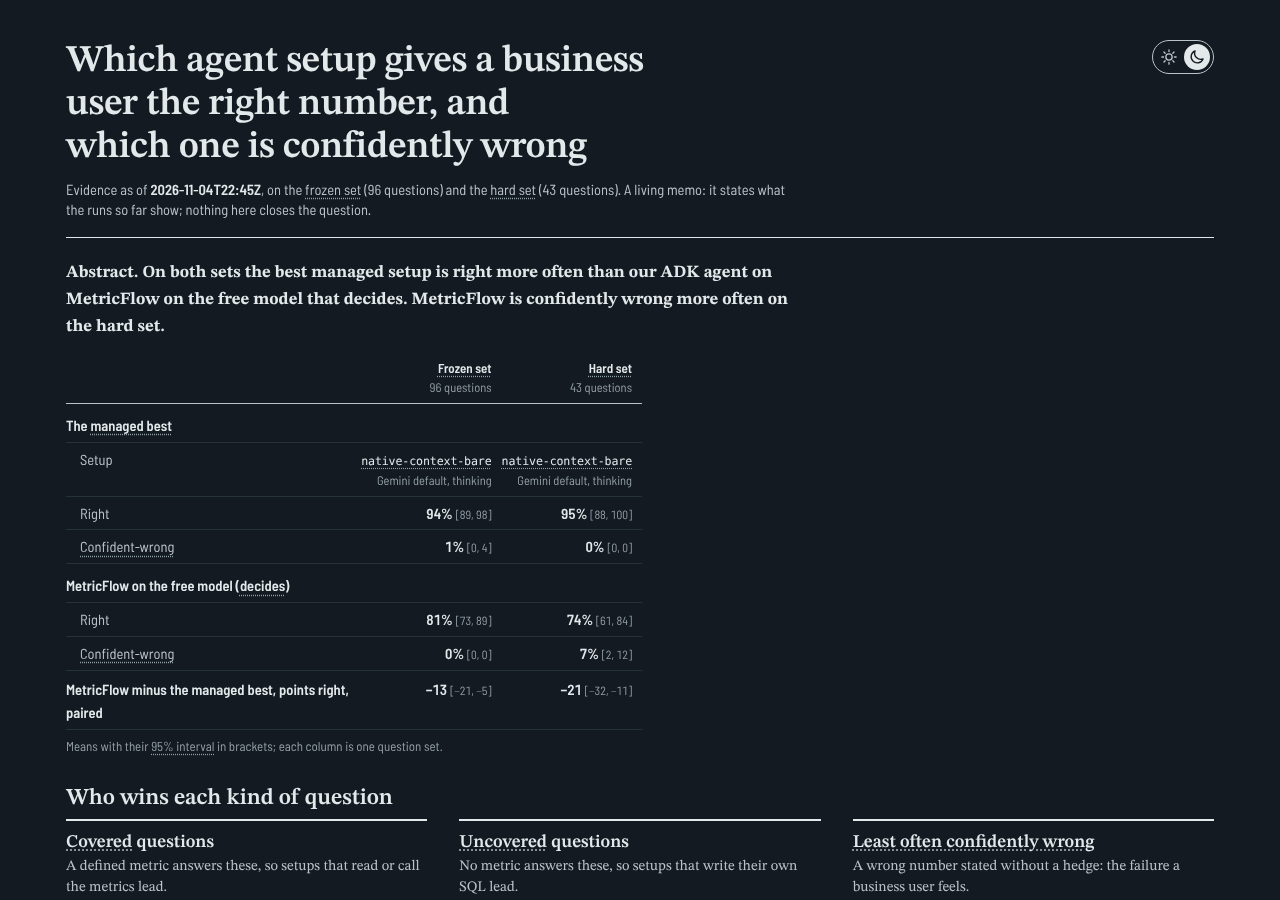
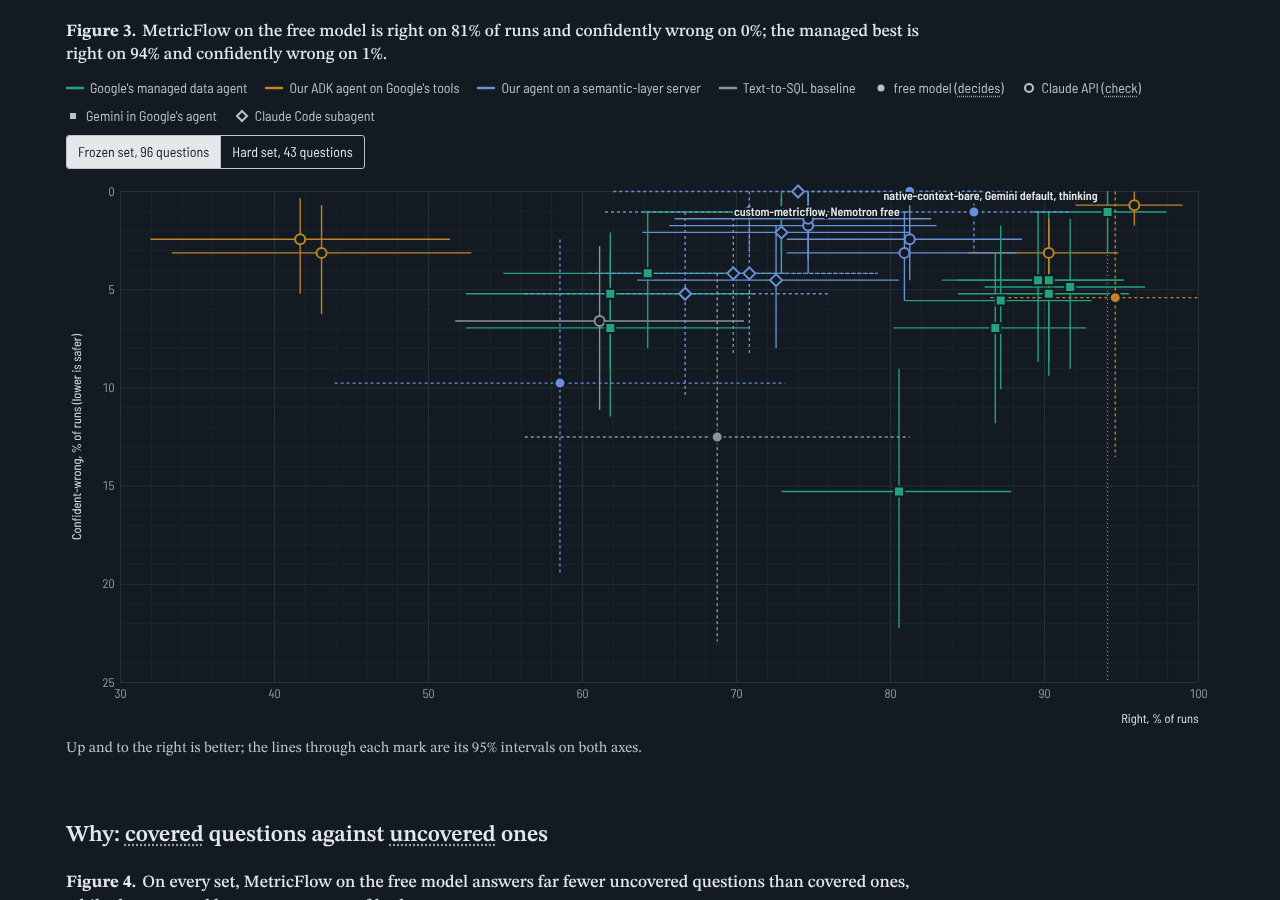
docs(semantic-bet): Plot port notes, measurements, screenshots and the plate header overlap fix

diff --git a/docs/research/semantic-bet/report/index.html b/docs/research/semantic-bet/report/index.html
@@ -2381,6 +2381,9 @@ window.reportReady(() => {
     G.bands.forEach((b, i) => { const bk = D.buckets.find((x) => x.key === b.b) || { label: b.b }; hh += `<span class="bh" style="left:${b.x + 8}px;${tierHead(i % 2 ? 1 : 2)}">${esc(bk.label)}<small>${b.n} q</small></span>`; });
     hh += `</div><div style="width:${G.IW}px"><span class="term" data-term="over-the-floor" tabindex="0">Over the floor</span><small>points right, paired</small></div><div style="width:${G.CWW}px"><span class="term" data-term="confident-wrong" tabindex="0">Confident-wrong</span><small>% of runs, 95%</small></div></div>`;
     head.innerHTML = `<div style="width:${total}px">${hh}</div>`;
+    // narrow bands: a column label that would run into the previous label on its tier moves right past it
+    const tierEnd = {};
+    head.querySelectorAll(".bh").forEach((sp) => { const t = sp.style.top, left = parseFloat(sp.style.left); if (tierEnd[t] != null && left < tierEnd[t] + 6) sp.style.left = (tierEnd[t] + 6) + "px"; tierEnd[t] = parseFloat(sp.style.left) + sp.offsetWidth; });
     let bh = ""; const minis = [];
     D.ladder.forEach((L) => {
       if (L.key === "L8") { bh += `<div class="prow step future" style="width:${total}px"><div>Rung 8. ${esc(L.label)}</div></div>`; return; }

diff --git a/docs/research/semantic-bet/report/template.html b/docs/research/semantic-bet/report/template.html
@@ -1065,6 +1065,9 @@ window.REPORT = D;
     G.bands.forEach((b, i) => { const bk = D.buckets.find((x) => x.key === b.b) || { label: b.b }; hh += `<span class="bh" style="left:${b.x + 8}px;${tierHead(i % 2 ? 1 : 2)}">${esc(bk.label)}<small>${b.n} q</small></span>`; });
     hh += `</div><div style="width:${G.IW}px"><span class="term" data-term="over-the-floor" tabindex="0">Over the floor</span><small>points right, paired</small></div><div style="width:${G.CWW}px"><span class="term" data-term="confident-wrong" tabindex="0">Confident-wrong</span><small>% of runs, 95%</small></div></div>`;
     head.innerHTML = `<div style="width:${total}px">${hh}</div>`;
+    // narrow bands: a column label that would run into the previous label on its tier moves right past it
+    const tierEnd = {};
+    head.querySelectorAll(".bh").forEach((sp) => { const t = sp.style.top, left = parseFloat(sp.style.left); if (tierEnd[t] != null && left < tierEnd[t] + 6) sp.style.left = (tierEnd[t] + 6) + "px"; tierEnd[t] = parseFloat(sp.style.left) + sp.offsetWidth; });
     let bh = ""; const minis = [];
     D.ladder.forEach((L) => {
       if (L.key === "L8") { bh += `<div class="prow step future" style="width:${total}px"><div>Rung 8. ${esc(L.label)}</div></div>`; return; }

diff --git a/docs/research/semantic-bet/report/NOTES.md b/docs/research/semantic-bet/report/NOTES.md
@@ -46,3 +46,29 @@ Build: `python3 build.py ../results.json`.
 - The owner, 2026-11-05T19:50Z: "I wanna keep both for now I loved both equally": the setup map and the setup explorer both stay, in that order, before "Method, briefly".
 - The explorer's "What changes" list: a piece swapped for another of the same title (the instruction reworded, as from `custom-metricflow` to `custom-hybrid`) no longer reads as the same line added and dropped; such a pair carries its first line, so the two read apart.
   Checked in Chromium: `custom-hybrid` shows "+ Instruction (given): metrics first; …" and "− Instruction (given): use only the metrics; …", with no console errors.
+
+## Observable Plot port
+
+- What moved to Plot: every figure's drawing.
+  Figure 2 (one Plot per panel, side by side, stacked under 700 px), Figure 3, Figure 4, Figure 5 (one Plot per family) and the unit plate of Figure 6 (one Plot of rects per row, replacing the canvases, plus the small interval charts beside each row).
+  Plot draws the frames, grids, axes, rules, interval links, lines and the role glyphs (custom Plot symbols that draw the page's own circle, square, diamond and triangle for a radius r); the y layouts that stack families, sets and lanes stay the page's own, passed to Plot as identity scales.
+- What stayed outside Plot, and why:
+  - The winners band, the decision map, the abstract and twin tables, the legends and the glossary stay HTML.
+  - The page's own tooltip, pinning, hover-to-focus, row band and glider: Plot's `tip` mark cannot pin, select or move a pin, so a render transform (`tag()`) reads each element's datum from Plot's binding and adds the `data-tip` / `data-setup` / `data-term` attributes and the `.mk[data-key|data-arm|data-fam]` wrapper the delegated handlers need; the sections contract is unchanged.
+  - The glider is a function mark: hand-drawn SVG placed with Plot's x scale, with its old pointer and keyboard handlers.
+  - Label placement that avoids collisions (Figure 3's two labels, Figure 5's right-hand labels) is still computed by the page, then drawn as Plot text.
+- Behaviour changes, all deliberate:
+  - Colours reach Plot as `var(--token)` strings, so a theme switch restyles every figure with no redraw; the `report-theme` event still fires and only closes a pinned tooltip.
+  - The row band of Figure 2 now lights up in both panels at once (a delegated handler marks every hit area of the hovered or focused row).
+  - Each Figure 2 row and set is one keyboard stop (the band in the right panel), where the stacked phone layout had two.
+  - The plate's column labels move right when one would run into the previous label on its tier (the hard set at 400 px overlapped by about 1 px before).
+- Vendored: `@observablehq/plot` 0.6.17 and `d3` 7.9.0, the UMD builds from the npm tarballs (integrity checked against the registry), listed with their sha256 in `vendor/README.md`; `build.py` inlines them and refuses to build if a file's sha256 differs. The page grew from 359 kB to 858 kB.
+- Measured in Chromium at 1280 px (median of five loads, render plus two frames):
+  - The plate on the hard set (its opening view): 82 ms with Plot, 27 ms with canvas; on the frozen set, 150 ms against 30 ms. Both stay under the 200 ms budget, so the plate moved to Plot.
+  - A theme switch: 49 ms, down from 87 ms, since nothing redraws.
+  - The page's own load (DOMContentLoaded after the response): 594 ms, up from 423 ms, mostly parsing the two libraries.
+- Checks:
+  - Every number the old page shows is on the new one: the visible numbers of both pages, per figure and with each set selected, match one to one (2,080 at 1280 px, 2,056 at 400 px).
+  - 1280 and 400 px, light and dark, each set: no console errors, no horizontal page scroll, no overlapping text among 1,497 to 1,623 text boxes.
+  - Hover, click-to-pin, select, hold, move and close, Escape, slopes focus, the glider (+1 to 2% with 43 rows dimmed, Shift+5 to 7% with 13, Home), a 40 px drag (83%, 41 rows) and double-click home, the plate's hover and pin, both setup sections' own focus and tooltips, and the theme switch give the same results as the old page.
+  - Contrast, computed from the rendered figures: text at least 5.56:1 (light) and 6.49:1 (dark); data marks at least 3.26:1 and 3.25:1. Under `prefers-reduced-motion` the transitions are 0 s and Plot adds no animation.

diff --git a/ledger.d/2026-11-05-semantic-bet-report-plot.md b/ledger.d/2026-11-05-semantic-bet-report-plot.md
@@ -1,0 +1,5 @@
+## 2026-11-05 — Semantic track — the bet report's figures on Observable Plot
+
+- Done: Figures 2 to 6 of the semantic-bet report (forest, scatter, strip, slopes, unit plate with its small interval charts) drawn with Observable Plot instead of hand-written SVG and canvas; `@observablehq/plot` 0.6.17 and `d3` 7.9.0 vendored from their npm tarballs and inlined by `build.py`, which checks each file's sha256; the page's tooltip, pinning, hover-to-focus, gliders and sections contract kept by tagging Plot's elements after render; colours as `var(--token)`, so a theme switch no longer redraws; a 1 px overlap in the plate's column labels at 400 px fixed; screenshots retaken.
+- Evidence: the visible numbers of the old and new pages match one to one (2,080 at 1280 px, 2,056 at 400 px); no console errors, no page scroll and no text overlaps at 1280 and 400 px in both themes; the scripted interactions give the old page's results; the plate renders in 82 ms (hard set) and 150 ms (frozen) against a 200 ms budget; text contrast at least 5.56:1 and marks at least 3.25:1 in both themes (`report/NOTES.md`, "Observable Plot port").
+- Open: Figure 3's managed-best label covers the MetricFlow mark it sits on (as before the port).
